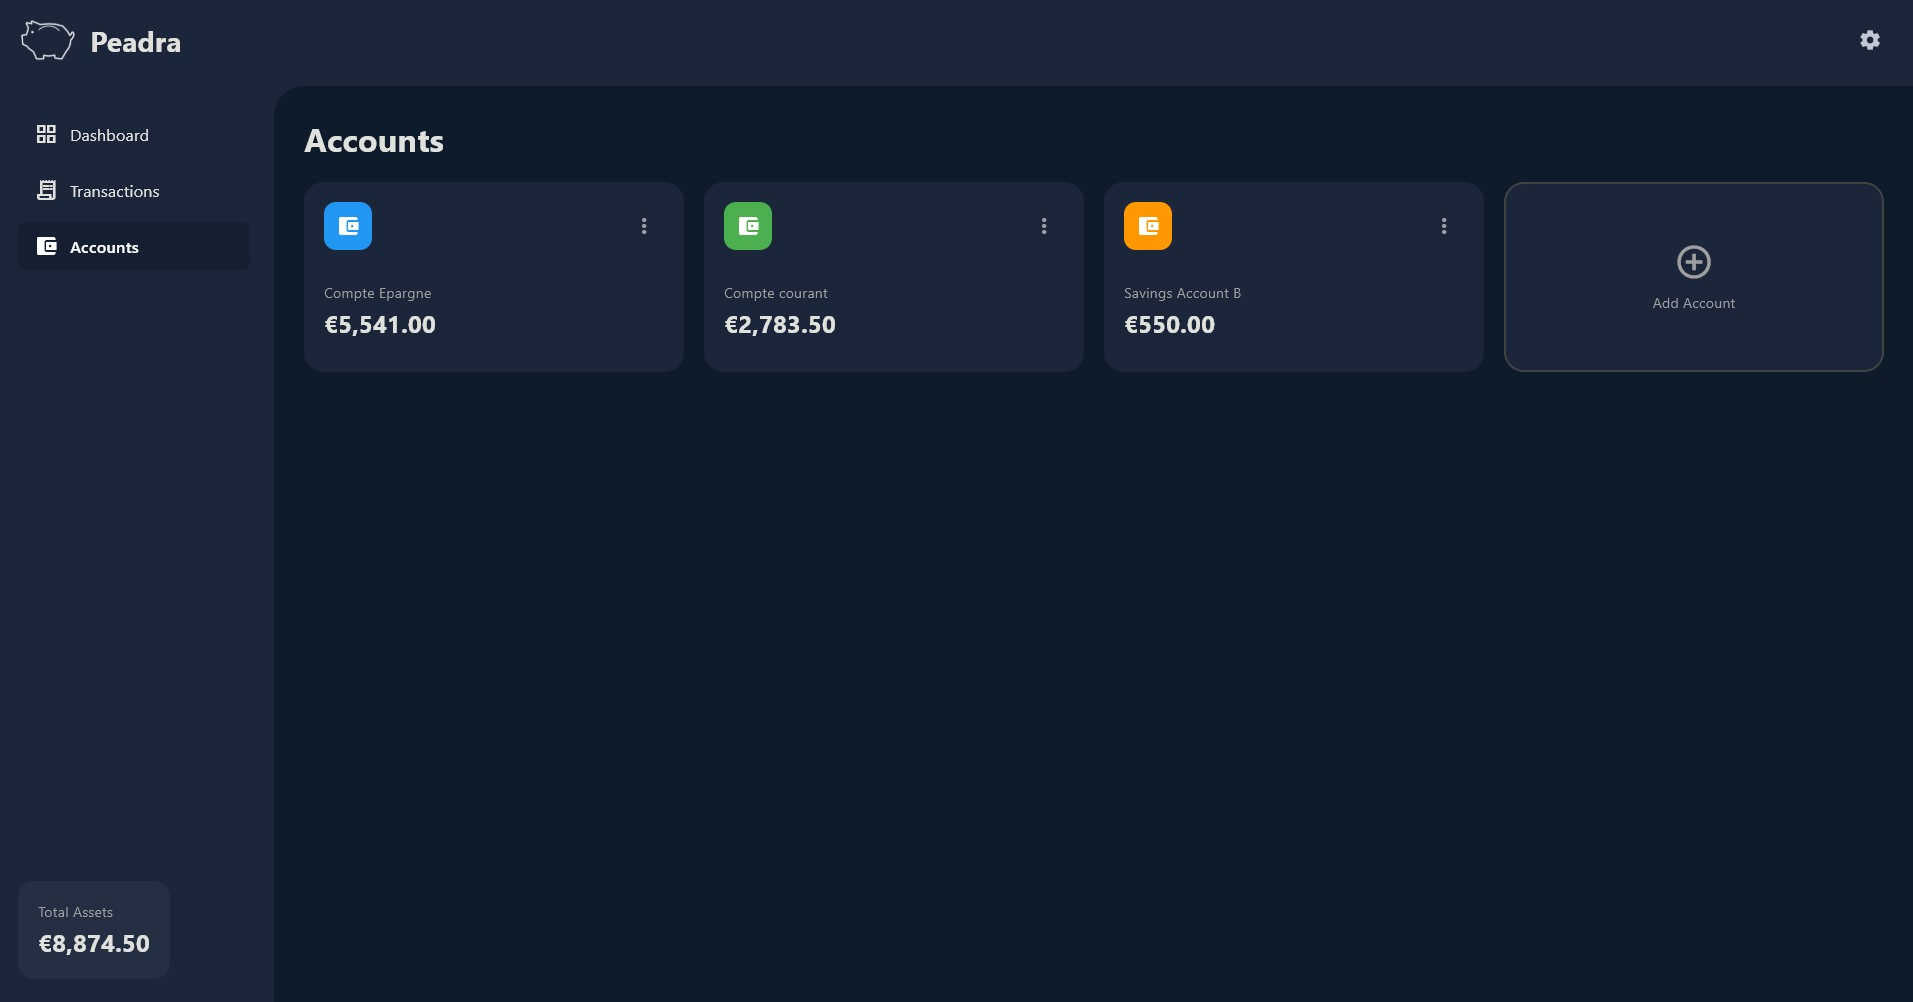
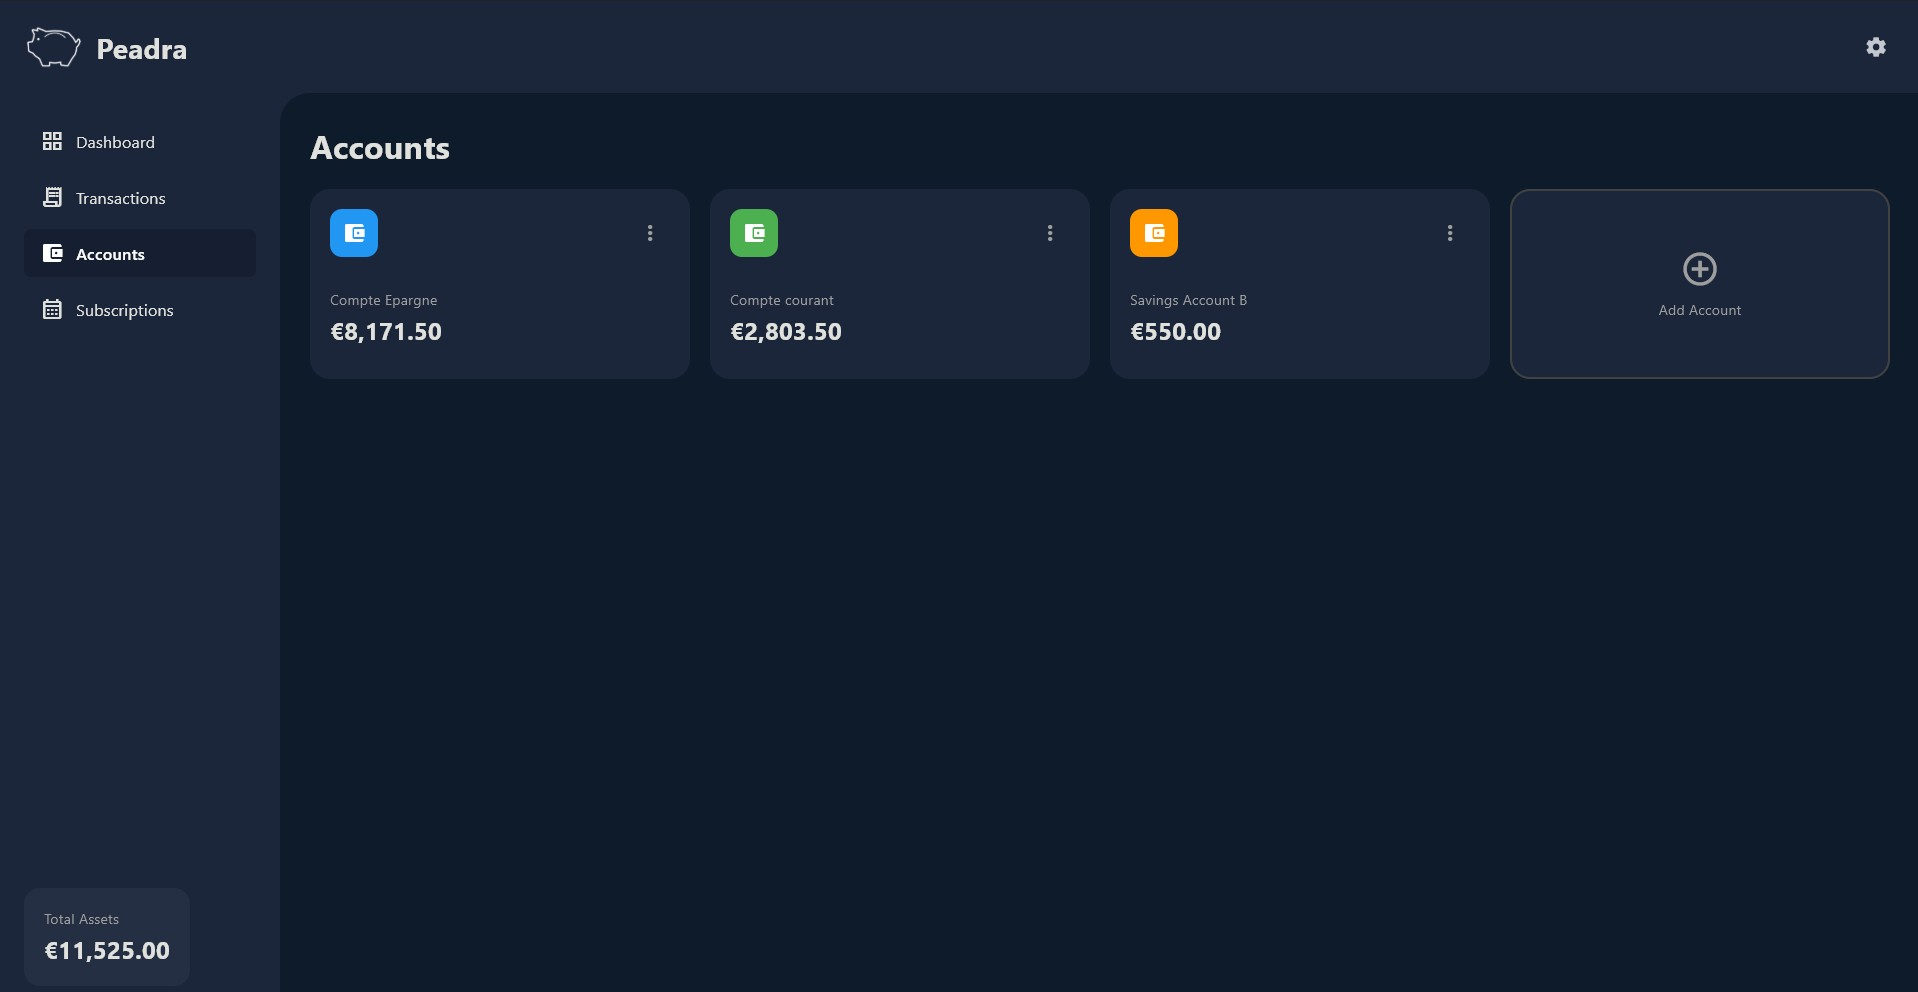
update todo & readme

diff --git a/README.md b/README.md
@@ -8,9 +8,9 @@
 | :---------------------------------------: | :--------------------------------------------: |
 | ![Peadra dashboard](assets/Dashboard.jpg) | ![Peadra transaction](assets/transactions.jpg) |
 
-|                  Accounts                 |                   Parameters                   |
-| :---------------------------------------: | :--------------------------------------------: |
-| ![Peadra Accounts](assets/Accounts.jpg)   | ![Peadra Parameters](assets/Parameters.jpg)    |
+|                  Accounts                 |                   Subscriptions                  |
+| :---------------------------------------: | :----------------------------------------------: |
+| ![Peadra Accounts](assets/Accounts.jpg)   | ![Peadra Subscription](assets/Subscriptions.jpg) |
 
 ## Overview
 
@@ -21,9 +21,10 @@ Peadra (*"wealth" in Breton*) is a desktop application designed to help you trac
 - View your current balance, assets distribution and evolution
 - Add, modify and delete transactions
 - Add, modify and delete your accounts
+- View recurring transactions and subscriptions
 - Import data from CSV files, export in JSON & CSV
 
->To come : subscriptions view, and [more](TODO.md)
+>To come : more parameters, an installer, and [more](TODO.md) !
 
 ## Technologies
 
@@ -41,27 +42,28 @@ An installer will be implemented later.
 
 ```
 Peadra/
-├── main.py                 # Application entry point
-├── requirements.txt        # Python dependencies
-├── LICENSE                 # MIT License
-├── README.md               # This file
+├── main.py                   # Application entry point
+├── requirements.txt          # Python dependencies
+├── LICENSE                   # GNU-GPL License
+├── README.md                 # This file
 └── src/
     ├── __init__.py
-    ├── components/         # Reusable UI components
+    ├── components/           # Reusable UI components
     │   ├── __init__.py
-    │   ├── modals.py       # Transaction and Asset modals
-    │   ├── navigation.py   # Navigation rail component
-    │   └── theme.py        # Theme configuration and styling
-    ├── database/           # Database layer
+    │   ├── modals.py         # Transaction and Asset modals
+    │   ├── navigation.py     # Navigation rail component
+    │   └── theme.py          # Theme configuration and styling
+    ├── database/             # Database layer
     │   ├── __init__.py
-    │   └── db_manager.py   # SQLite database manager
-    └── views/              # Application views
+    │   └── db_manager.py     # SQLite database manager
+    └── views/                # Application views
         ├── __init__.py
-        ├── accounts.py     # Accounts view
-        ├── dashboard.py    # Dashboard view
-        ├── import_data.py  # Import data view
-        ├── parameters.py   # Parameters view
-        └── transactions.py # Transactions management view
+        ├── accounts.py       # Accounts view
+        ├── dashboard.py      # Dashboard view
+        ├── import_data.py    # Import data view
+        ├── parameters.py     # Parameters view
+        ├── subscriptions.py  # Parameters view
+        └── transactions.py   # Transactions management view
 ```
 
 To learn more about how Peadra works under the hood, please have a look to the [documentation](./DOCUMENTATION.md) !

diff --git a/DOCUMENTATION.md b/DOCUMENTATION.md
@@ -54,21 +54,22 @@ The project structure follows a logical separation of concerns (simplified MVC):
 
 ```
 Peadra/
-├── main.py                 # Entry point. Initializes Flet app and navigation.
-├── requirements.txt        # Production dependencies list.
+├── main.py                    # Entry point. Initializes Flet app and navigation.
+├── requirements.txt           # Production dependencies list.
 └── src/
-    ├── components/         # Reusable UI widgets
-    │   ├── modals.py       # Modal windows (Transaction, Asset).
-    │   ├── navigation.py   # Sidebar navigation (Rail).
-    │   └── theme.py        # Theme configuration (Light/Dark).
-    ├── database/           # Data access layer
-    │   └── db_manager.py   # SQLite manager (Singleton recommended).
-    └── views/              # Application pages
-        ├── dashboard.py    # View (0): Overview (Charts, KPI).
-        ├── transactions.py # View (1): Transaction list and addition.
-        ├── accounts.py     # View (2): Accounts management.
-        ├── parameters.py   # View (3): User configuration.
-        └── import_data.py  # File import (CSV/Bank exports).
+    ├── components/            # Reusable UI widgets
+    │   ├── modals.py          # Modal windows (Transaction, Asset).
+    │   ├── navigation.py      # Sidebar navigation (Rail).
+    │   └── theme.py           # Theme configuration (Light/Dark).
+    ├── database/              # Data access layer
+    │   └── db_manager.py      # SQLite manager (Singleton recommended).
+    └── views/                 # Application pages
+        ├── dashboard.py       # View (0): Overview (Charts, KPI).
+        ├── transactions.py    # View (1): Transaction list and addition.
+        ├── accounts.py        # View (2): Accounts management.
+        ├── parameters.py      # View (4): User configuration.
+        ├── subscriptions.py   # View (3): Subscriptions calendar view and bento grid with financial projections.
+        └── import_data.py     # File import (CSV/Bank exports).
 ```
 
 ### Data Flow
@@ -103,6 +104,20 @@ The core of the application, storing every financial movement.
 - `category_id` (FK): Link to `categories.id`.
 - `notes` (Text): Optional remarks.
 - `created_at` / `updated_at` (Timestamp).
+
+### `recurring_transactions`
+Manages subscriptions and repeating transactions.
+- `id` (PK): Unique identifier.
+- `description` (Text): Subscription label.
+- `amount` (Real): Expected amount.
+- `transaction_type` (Text): 'income' or 'expense'.
+- `start_date` (Date): When the recurrent transaction begins.
+- `end_date` (Date): Optional end date for the recursion.
+- `frequency` (Text): Recurrence pattern ('daily', 'weekly', 'monthly', 'yearly').
+- `interval` (Integer): Multiplier for the frequency (e.g., every 1 month).
+- `next_due_date` (Date): Next calculated payment date.
+- `category_id` (FK): Link to `categories.id`.
+- `active` (Integer): Flag (1=active, 0=inactive).
 
 ### `imported_files`
 History of imported files to avoid duplicates during CSV imports.

diff --git a/TODO.md b/TODO.md
@@ -8,7 +8,7 @@ This document presents future changes and wanted improvements.
 
 **The application is not intended to become cloud-based, and should stay local.**
 
-Peadra aims to become a local version of existing apps like *Finary*, with you keeping all control over your data.
+Peadra aims to become a local version of existing apps like *[Finary](https://finary.com)*, with you keeping all control over your data.
 
 It is currently delevoped with desktop in mind, but may come to smartphones later.
 If so, a peer-to-peer encrypted sync may be implemented.
@@ -16,11 +16,10 @@ If so, a peer-to-peer encrypted sync may be implemented.
 ## In development
 
 - Fix reported linux bugs
-- Subscription view enhancement
+- More parameters
 
 ## Future Improvements *(by priority)*
 
-- More parameters
 - Security : password, encryption ?
 - Bank API connection
 - Installer
